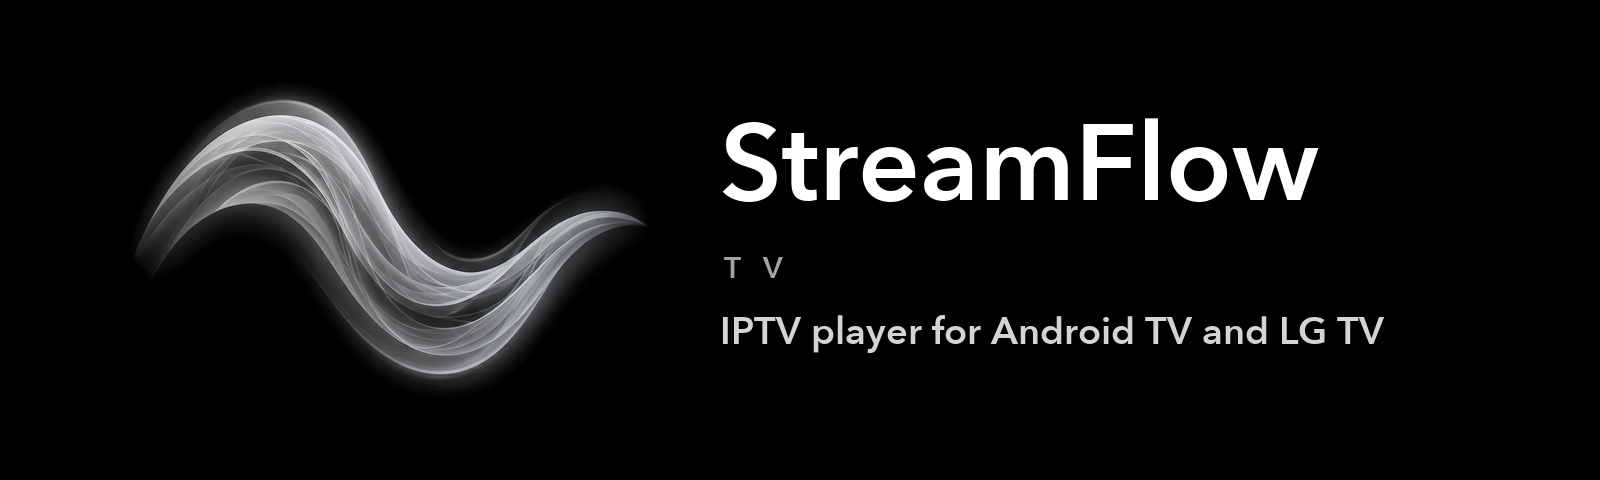
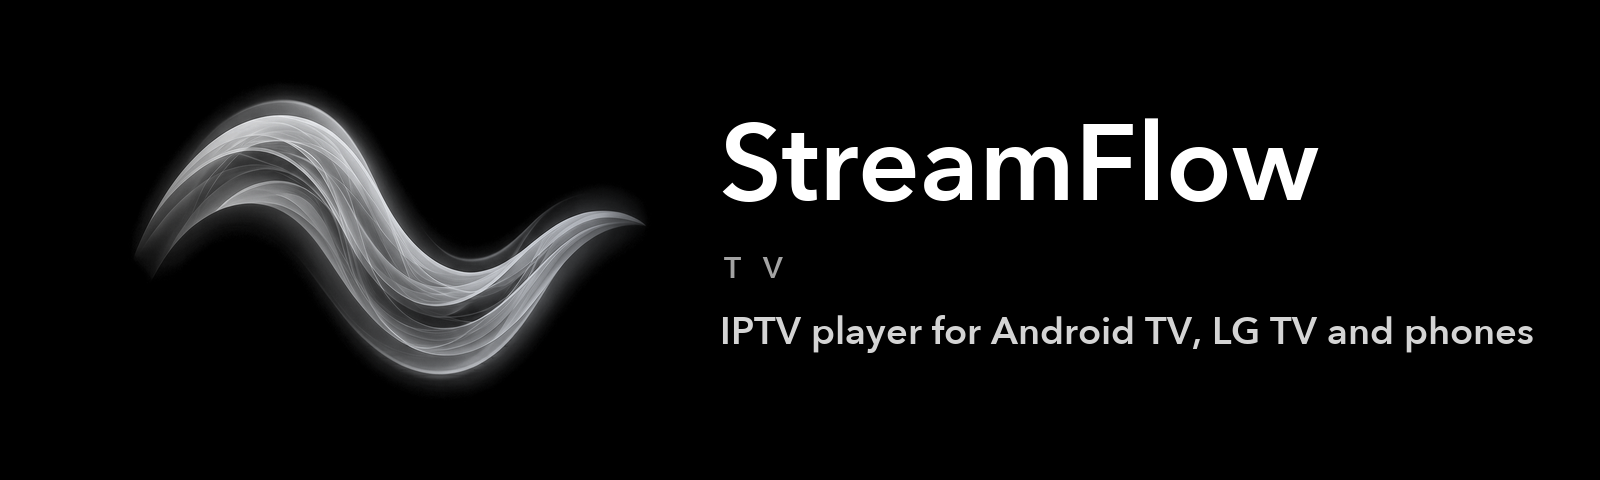
README: the Android phone app (1.4.0)

Changed region(s): [[0.75, 0.6562, 0.9688, 0.7188]]

diff --git a/README.md b/README.md
@@ -1,27 +1,29 @@
 <p align="center">
-  <img src="images/header.png" alt="StreamFlow TV — IPTV player for Android TV and LG TV" width="100%">
+  <img src="images/header.png" alt="StreamFlow TV — IPTV player for Android TV, LG TV and Android phones" width="100%">
 </p>
 
 <p align="center">
-  <b>An IPTV player for Android TV and LG TV, made for the remote.</b><br>
+  <b>An IPTV player for Android TV, LG TV and Android phones.</b><br>
   Bring your own M3U playlist and XMLTV guide; StreamFlow does the rest.
 </p>
 
 <p align="center">
   <a href="https://tinyurl.com/5ee4bvwv"><img alt="Download the APK for Android TV" src="https://img.shields.io/badge/Android%20TV-StreamFlow--TV.apk-FFFFFF?style=for-the-badge&logo=android&logoColor=white&labelColor=000000"></a>
   <a href="https://github.com/Getmygity/StreamFlow-TV/releases/latest/download/StreamFlow-LG.ipk"><img alt="Download the IPK for LG TV" src="https://img.shields.io/badge/LG%20TV-StreamFlow--LG.ipk-FFFFFF?style=for-the-badge&logo=lg&logoColor=white&labelColor=000000"></a>
+  <a href="https://github.com/Getmygity/StreamFlow-TV/releases/latest/download/StreamFlow-Phone.apk"><img alt="Download the APK for Android phones" src="https://img.shields.io/badge/Android%20phone-StreamFlow--Phone.apk-FFFFFF?style=for-the-badge&logo=android&logoColor=white&labelColor=000000"></a>
 </p>
 
 <p align="center">
   <img alt="Android TV 5.0+" src="https://img.shields.io/badge/Android%20TV-5.0%2B-262626?style=for-the-badge&logo=android&logoColor=white&labelColor=000000">
   <img alt="LG webOS 22+" src="https://img.shields.io/badge/LG%20webOS-22%2B-262626?style=for-the-badge&logo=lg&logoColor=white&labelColor=000000">
+  <img alt="Android 8.0+" src="https://img.shields.io/badge/Android%20phone-8.0%2B-262626?style=for-the-badge&logo=android&logoColor=white&labelColor=000000">
 </p>
 
 <p align="center">
   <img src="images/home.jpg" alt="StreamFlow home screen" width="90%">
 </p>
 
-**Which one do I need?** An Android TV, Google TV or Android box takes **`StreamFlow-TV.apk`** ([install steps](#%EF%B8%8F-install-on-your-android-tv)). An LG smart TV from 2022 or later takes **`StreamFlow-LG.ipk`** ([install steps](#%EF%B8%8F-install-on-your-lg-tv)).
+**Which one do I need?** An Android TV, Google TV or Android box takes **`StreamFlow-TV.apk`** ([install steps](#%EF%B8%8F-install-on-your-android-tv)). An LG smart TV from 2022 or later takes **`StreamFlow-LG.ipk`** ([install steps](#%EF%B8%8F-install-on-your-lg-tv)). An Android phone takes **`StreamFlow-Phone.apk`** ([install steps](#%EF%B8%8F-install-on-your-android-phone)).
 
 ---
 
@@ -52,6 +54,27 @@ Choose **Install** when it finishes. If Play Protect warns about an unknown app,
 > **You need your own IPTV subscription.** StreamFlow is a player only; it comes with no channels.
 >
 > **Prefer a computer?** Download [`StreamFlow-TV.apk`](https://tinyurl.com/5ee4bvwv), then run `adb connect <tv-ip>:5555` and `adb install StreamFlow-TV.apk`.
+
+---
+
+## ⬇ Install on your Android phone
+
+For phones with **Android 8.0 or newer**. StreamFlow isn't in the Play Store, so it's installed from this page. It takes about two minutes.
+
+**1. Download it on the phone.** In the phone's browser, open `github.com/Getmygity/StreamFlow-TV/releases/latest/download/StreamFlow-Phone.apk`, or tap the badge at the top of this page.
+
+**2. Let the browser install apps.** When Android asks, tap **Settings**, switch on **Allow from this source**, and go back. (Or: *Settings → Apps → Special app access → Install unknown apps*, then your browser.)
+
+**3. Install.** Open the downloaded file and tap **Install**. If Play Protect warns about an unknown app, choose to install anyway.
+
+**4. Type your links.** Open **StreamFlow** and enter your **playlist (M3U) link** and, optionally, your **guide (XMLTV) link**. It loads your channels and you're in.
+
+<p align="center">
+  <img src="images/phone-live.jpg" alt="Live TV on a phone" width="30%">
+  <img src="images/phone-vod.jpg" alt="Movies and series on a phone" width="30%">
+  <img src="images/phone-sports.jpg" alt="Live sports on a phone" width="30%"><br>
+  <sub>Live TV · Movies &amp; series · Live sports</sub>
+</p>
 
 ---
 
@@ -104,6 +127,7 @@ ares-launch -d mytv com.youngertv.streamflow.lgtv
 - **Hold OK** on a channel for Play, Select Server, Information or Cancel. In **Information**, LEFT and RIGHT step through the channel's schedule.
 - **A guide that keeps itself fresh,** search across everything, and groups you can hide and reorder.
 - **Hebrew-friendly:** programme text reads right to left.
+- **On a phone:** the same channels, movies and sports in a tab bar; play sideways, swipe through the schedule and the channels, and get goal alerts.
 
 | | |
 |:---:|:---:|
@@ -120,7 +144,12 @@ ares-launch -d mytv com.youngertv.streamflow.lgtv
 | <img src="images/lg-sports.jpg" alt="Live sports on LG TV"><br>**Live sports** — each game with its channels | <img src="images/lg-goal-alert.jpg" alt="Goal alert on LG TV"><br>**Goal alert** — OK switches to the game |
 | <img src="images/lg-home.jpg" alt="LG TV home screen"><br>**LG TV home** — with the muted preview | <img src="images/lg-player.jpg" alt="LG TV player"><br>**LG TV player** |
 
-<sub>Screenshots use a test playlist: the Android TV emulator, and the LG app's desktop build.</sub>
+<p align="center">
+  <img src="images/phone-player.jpg" alt="The phone's player, sideways" width="70%"><br>
+  <sub>The phone's player, sideways</sub>
+</p>
+
+<sub>Screenshots use a test playlist: the Android TV and Android phone emulators, and the LG app's desktop build.</sub>
 
 ---
 
@@ -140,8 +169,8 @@ On an LG TV the **Magic Remote** works too: point at a channel to focus it and c
 
 ## ❓ Questions
 
-- **Updating to a new version:** install the new file the same way. It installs over the old one and keeps your settings. On Android TV, **Settings → Check for updates** downloads and installs it for you; on an LG TV it shows what's new and how to install it.
-- **"App not installed" (Android TV):** uninstall any older StreamFlow build first, then install again.
+- **Updating to a new version:** install the new file the same way. It installs over the old one and keeps your settings. On Android TV, **Settings → Check for updates** downloads and installs it for you; on an LG TV it shows what's new and how to install it. On a phone too, **Settings → Check for updates** downloads and installs it.
+- **"App not installed" (Android TV or phone):** uninstall any older StreamFlow build first, then install again.
 - **The QR page won't open on my phone (Android TV):** make sure the phone and the TV are on the same Wi-Fi network.
 - **StreamFlow disappeared from my LG TV:** the Developer Mode session ran out. Turn Developer Mode on again, install the IPK again, and extend the session every few weeks from then on.
 - **Typing a long link on the LG TV is slow:** use the LG ThinQ app on your phone as the TV's keyboard.
